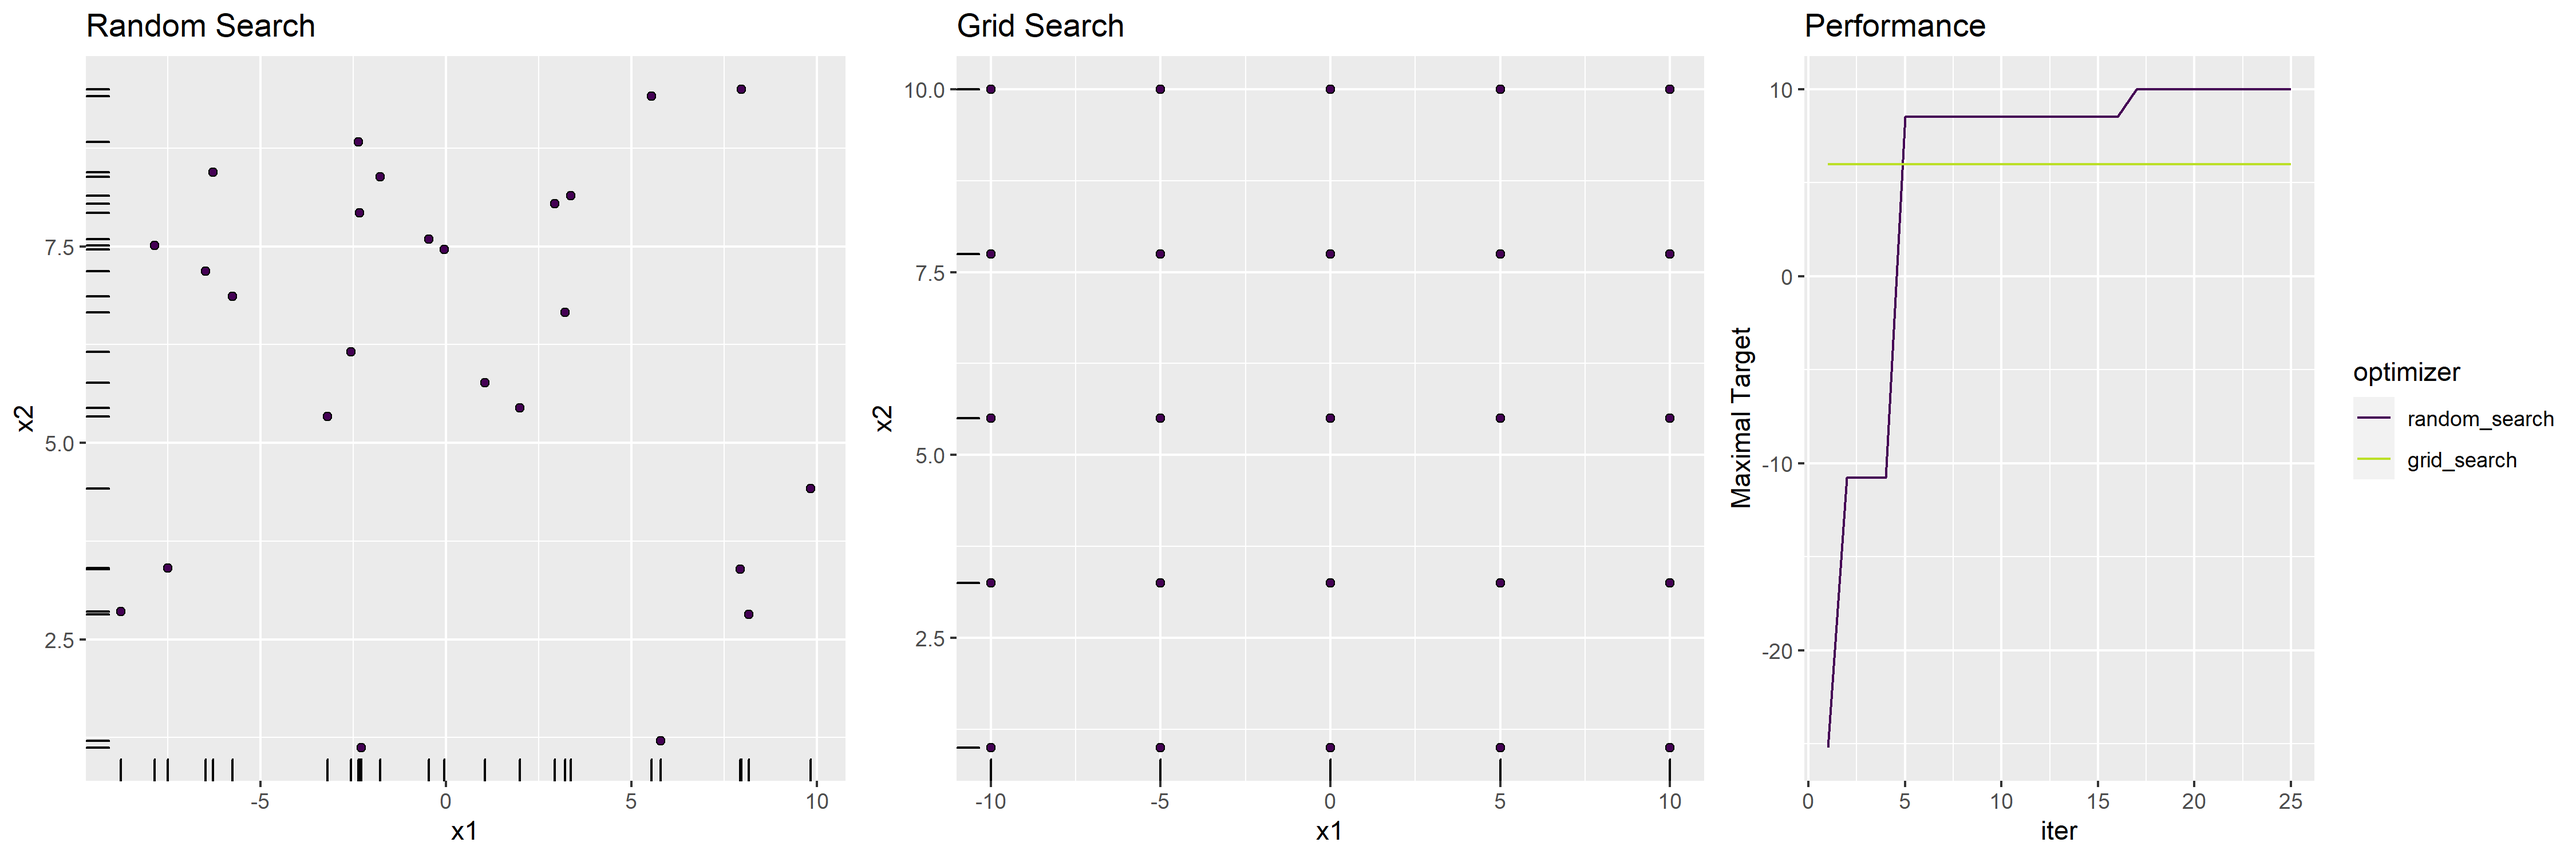
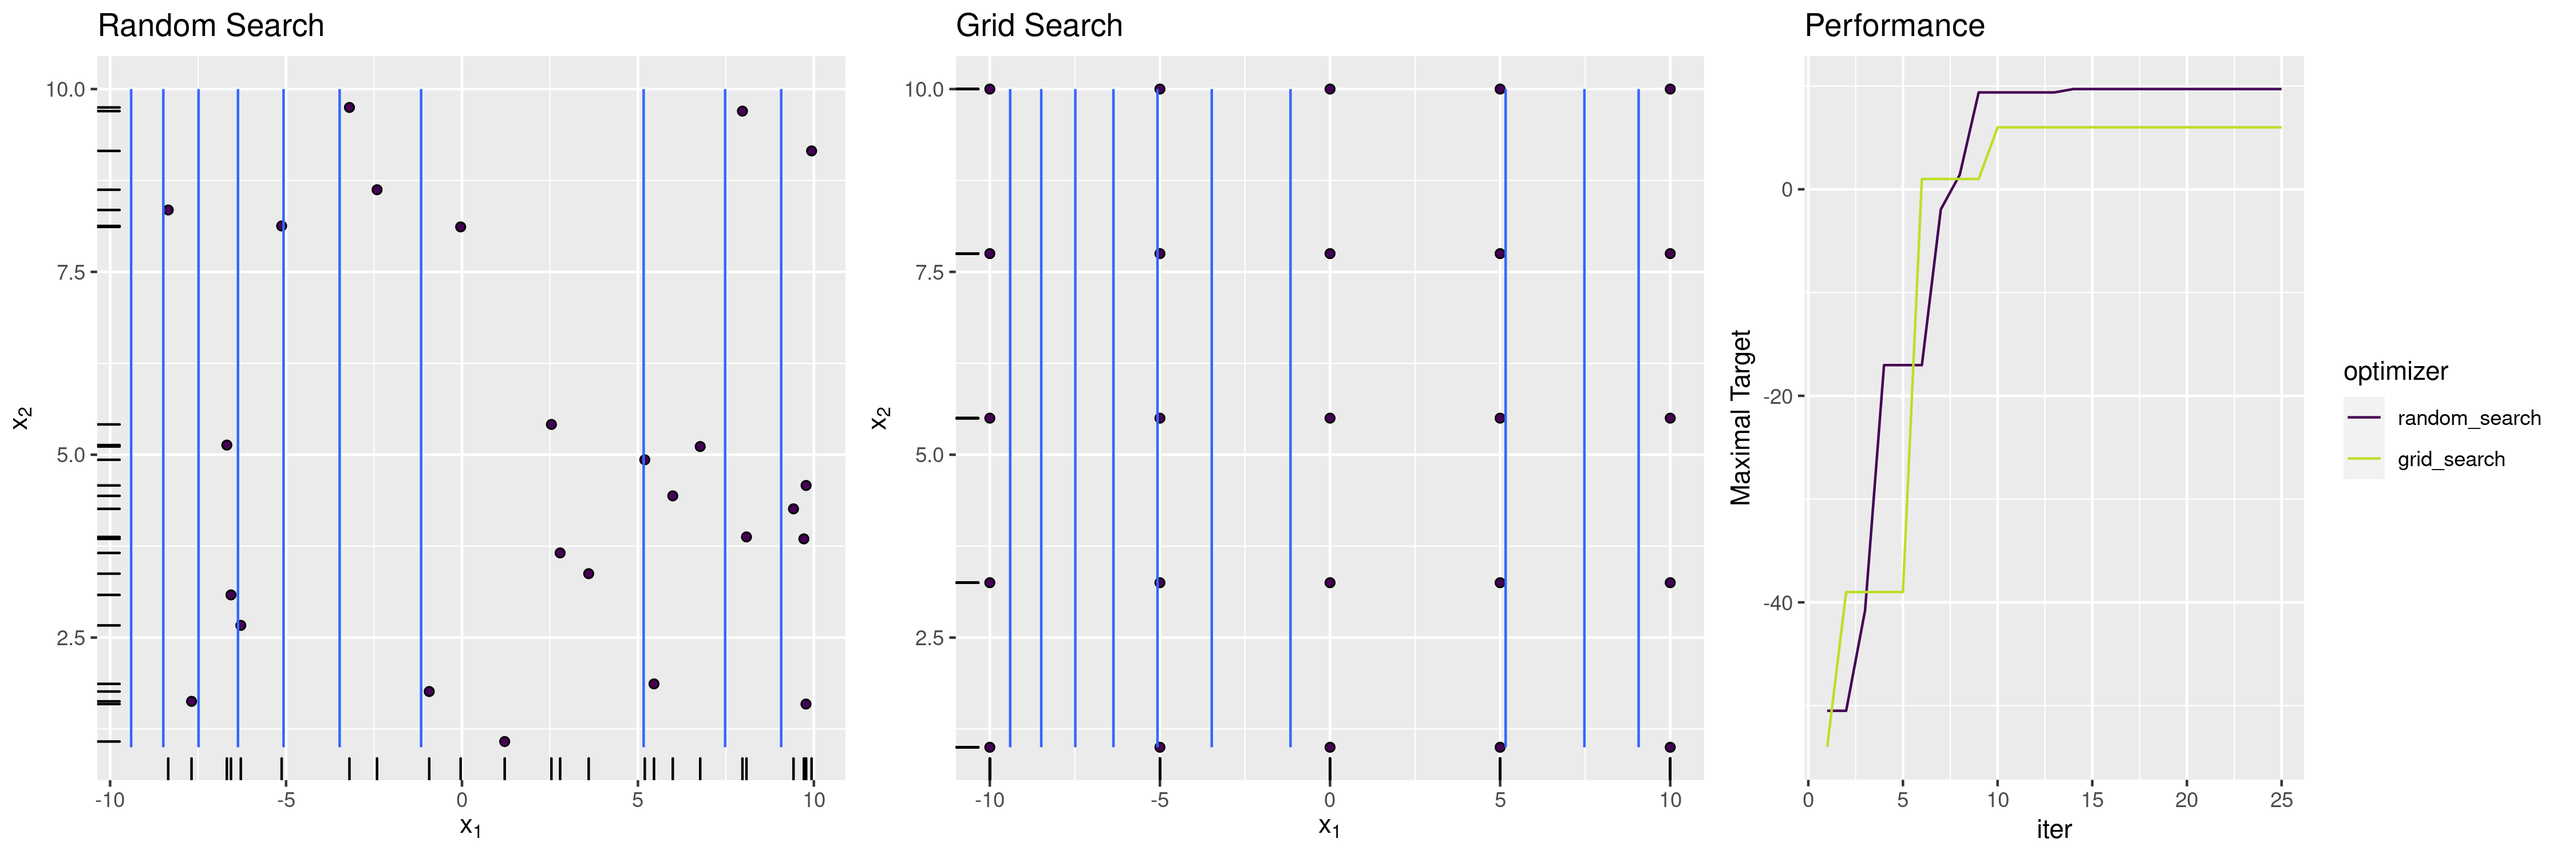
update basic algos

diff --git a/slides/tuning/slides-tuning-advanced.tex b/slides/tuning/slides-tuning-advanced.tex
@@ -2,7 +2,7 @@
 \newcommand{\titlefigure}{figure/seq_1d_bo4.pdf}
 \newcommand{\learninggoals}{
 \item Understand the idea of model based optimization
-\item Be able to explain the terms 'surrogate model' and 'expected improvement'
+\item Be able to explein the terms 'surrogate model' and 'expected improvement'
 \item Understand the idea of hyperband}
 \usepackage{../../style/lmu-lecture}
 \input{../../latex-math/basic-ml.tex}
@@ -18,7 +18,7 @@
 
 \begin{document}
 
-\lecturechapter{Hyperparameter Tuning - Advanced Tuning Techniques: MBO \& Hyperband}
+\lecturechapter{Hyperparameter Tuning - Advanced Tuning Techniques}
 \lecture{Introduction to Machine Learning}
 \sloppy
 
@@ -133,8 +133,8 @@ Important trade-off: \textbf{Exploration} (evaluate candidates in under-explored
 \end{knitrout}
   
   \begin{footnotesize}
-Upper plot: The surrogate model (black, dashed) models the \emph{unknown} relationship between input and output (black, solid) based on the initial design (red points).\\
-Lower plot: Mean and variance of the surrogate model are used to derive the expected improvement (EI) criterion. The point that maximizes the EI is proposed (blue point). 
+Upper plot: The surrogate model (black, solid) models the \emph{unknown} relationship between input and output (black, dashed) based on the initial design (red points).\\
+Lower plot: Mean and variance of the surrogate model are used to derive the expected improvement (EI) criterion. The point that maximizes the EI is proposed (green point). 
 \end{footnotesize}
 
 
@@ -152,8 +152,8 @@ Lower plot: Mean and variance of the surrogate model are used to derive the expe
 
 \end{knitrout}
   \begin{footnotesize}
-Upper plot: The surrogate model (black, dashed) models the \emph{unknown} relationship between input and output (black, solid) based on the initial design (red points).\\
-Lower plot: Mean and variance of the surrogate model are used to derive the expected improvement (EI) criterion. The point that maximizes the EI is proposed (blue point). 
+Upper plot: The surrogate model (black, solid) models the \emph{unknown} relationship between input and output (black, dashed) based on the initial design (red points).\\
+Lower plot: Mean and variance of the surrogate model are used to derive the expected improvement (EI) criterion. The point that maximizes the EI is proposed (green point). 
 \end{footnotesize}
 
 \end{vbframe}
@@ -173,8 +173,8 @@ Lower plot: Mean and variance of the surrogate model are used to derive the expe
 
 \end{knitrout}
   \begin{footnotesize}
-Upper plot: The surrogate model (black, dashed) models the \emph{unknown} relationship between input and output (black, solid) based on the initial design (red points).\\
-Lower plot: Mean and variance of the surrogate model are used to derive the expected improvement (EI) criterion. The point that maximizes the EI is proposed (blue point). 
+Upper plot: The surrogate model (black, solid) models the \emph{unknown} relationship between input and output (black, dashed) based on the initial design (red points).\\
+Lower plot: Mean and variance of the surrogate model are used to derive the expected improvement (EI) criterion. The point that maximizes the EI is proposed (green point). 
 \end{footnotesize}
 
 \end{vbframe}
@@ -191,8 +191,8 @@ Lower plot: Mean and variance of the surrogate model are used to derive the expe
 
 \end{knitrout}
   \begin{footnotesize}
-Upper plot: The surrogate model (black, dashed) models the \emph{unknown} relationship between input and output (black, solid) based on the initial design (red points).\\
-Lower plot: Mean and variance of the surrogate model are used to derive the expected improvement (EI) criterion. The point that maximizes the EI is proposed (blue point). 
+Upper plot: The surrogate model (black, solid) models the \emph{unknown} relationship between input and output (black, dashed) based on the initial design (red points).\\
+Lower plot: Mean and variance of the surrogate model are used to derive the expected improvement (EI) criterion. The point that maximizes the EI is proposed (green point). 
 \end{footnotesize}
 \framebreak
 
@@ -230,8 +230,8 @@ we are guided to \enquote{interesting} regions of $\bm{\Lambda}$ and avoid irrel
 \item Races down set of HPCs to the best
 \item Idea: Discard bad configurations early
 \item Train HPCs with fraction of full budget (SGD epochs, training set size); the control param for this is called \textbf{multi-fidelity HP}
-\item Continue with better fraction $:=1/\eta$ (often half, i.e., $\eta = 2$) of HPCs (w.r.t $\GEh{}$); 
-with $\eta$ times budget
+\item Continue with better half of HPCs (w.r.t $\GEh{}$); 
+with doubled budget
 \item Repeat until budget depleted or single HPC remains
 \end{itemize}
 \column{0.41\textwidth}
@@ -252,54 +252,15 @@ with $\eta$ times budget
 \end{itemize}
 \textbf{Solution: Hyperband}
 \begin{itemize}
-\item Repeat SH with different start budgets $\lambda_{\text{fid}}^{[0]}$ and initial number of HPCs $p^{[0]}$ 
+\item Repeat SH with different start budgets $\lambda_{\text{budget}}^{[0]}$ and initial number of HPCs $p^{[0]}$ 
 \item Each SH run is called bracket
 \item Each bracket consumes ca. the same budget
 %\item It is a multi-fidelity optimization method since it uses information of multiple fidelity levels to identify promising candidates
 \end{itemize}
-
 \column{0.30\textwidth}
-\begin{footnotesize}
-For  $\eta = 4:$
 \begin{center}
-bracket 3 \\
-\begin{tabular}{ccc}
-$t$ & $\lambda^{[t]}_\text{fid}$ & $p_3^{[t]}$ \\
-\hline
-0 & 1 & 82 \\
-1 & 4 & 20 \\
-2 & 16 & 5 \\
-3 & 64 & 1 
-\end{tabular} \\
-\medskip
-bracket 2 \\
-\begin{tabular}{ccc}
-$t$ & $\lambda^{[t]}_\text{fid}$ & $p_2^{[t]}$ \\
-\hline
-0 & 4 & 27 \\
-1 & 16 & 6 \\
-2 & 64 & 1 
-\end{tabular} \\
-\medskip
-bracket 1 \\
-\begin{tabular}{ccc}
-$t$ & $\lambda^{[t]}_\text{fid}$ & $p_1^{[t]}$ \\
-\hline
-0 & 16 & 10 \\
-1 & 64 & 2 
-\end{tabular} \\
-
-\medskip
-bracket 0 \\
-\begin{tabular}{ccc}
-$t$ & $\lambda^{[t]}_\text{fid}$ & $p_1^{[t]}$ \\
-\hline
-0 & 64 & 5 
-\end{tabular}
-
-% \includegraphics[trim=620 0 0 0, clip, width = 0.70\textwidth]{figure/hyperband.eps}
+\includegraphics[trim=620 0 0 0, clip, width = 0.70\textwidth]{figure/hyperband.eps}
 \end{center}
-\end{footnotesize}
 \end{columns}
 \end{vbframe}
 

diff --git a/slides/tuning/slides-tuning-basicalgos.tex b/slides/tuning/slides-tuning-basicalgos.tex
@@ -98,7 +98,7 @@ Random search over 100 points
 \end{vbframe}
 
 \begin{vbframe}{Random Search vs. Grid Search}
-	We consider a maximization problem on the function $f(x1,x2)=g(x1)+h(x2)\approx g(x1)$, i.e. in order to maximize the target, $x1$ should be the parameter to focus on.
+	We consider a maximization problem on the function $f(x_1,x_2)=g(x_1)+h(x_2)\approx g(x_1)$, i.e. in order to maximize the target, $x_1$ should be the parameter to focus on.
 	\vspace{0.5cm}
 	\begin{knitrout}\scriptsize
 		\definecolor{shadecolor}{rgb}{0.969, 0.969, 0.969}\color{fgcolor}
@@ -108,7 +108,7 @@ Random search over 100 points
 		% FIGURE SOURCE: make_rs_gs_simulation_plot.R
 		
 	\end{knitrout}
-	$\Rightarrow$ In this setting, random search is more superior as we get a better coverage for the parameter $x1$ in comparison with grid search, where we only discover 5 distinct values for $x1$.
+	$\Rightarrow$ In this setting, random search is more superior as we get a better coverage for the parameter $x_1$ in comparison with grid search, where we only discover 5 distinct values for $x_1$.
 \end{vbframe}
 
 \begin{vbframe}{Tuning Example - Grid Search}
